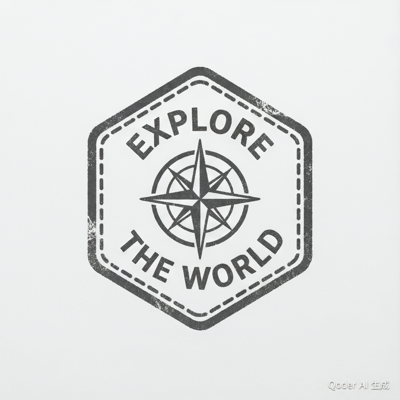
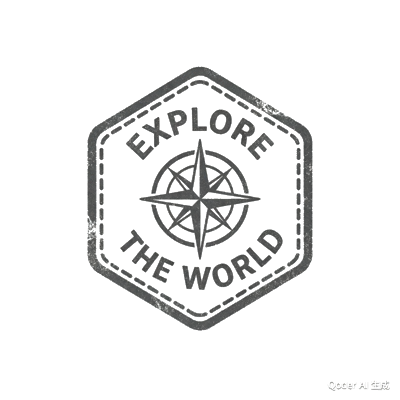
v0.7: fix SVG coordinate mismatch (move SVGs inside canvas), remove stamp white bg (PIL RGBA conversion), spread objects across full 1100x750 canvas

diff --git a/src/components/auth/LandingPage.tsx b/src/components/auth/LandingPage.tsx
@@ -270,13 +270,13 @@ export function LandingPage() {
           }}
         />
 
-        {/* Collage canvas wrapper — larger to show more spread */}
+        {/* Collage canvas wrapper */}
         <div style={{ position: 'relative', width: 750, height: 520, display: 'flex', alignItems: 'center', justifyContent: 'center' }}>
           <div style={{ position: 'relative', width: 1100, height: 750, transform: 'scale(0.62)', transformOrigin: 'center center', flexShrink: 0 }}>
 
-          {/* ── PHOTOS (top center, prominent) ── */}
+          {/* ── PHOTOS (top row, well-spaced) ── */}
           {/* Photo 1 — Wat Chedi Luang */}
-          <div className="landing-obj" style={{ position: 'absolute', left: 80, top: 30, transform: 'rotate(-3deg)', animationDelay: '0.1s' }}>
+          <div className="landing-obj" style={{ position: 'absolute', left: 55, top: 25, transform: 'rotate(-3deg)', animationDelay: '0.1s' }}>
             <div style={{ width: 240, height: 170, borderRadius: 2, boxShadow: '0 6px 20px rgba(0,0,0,0.22)', overflow: 'hidden', background: '#EEE' }}>
               <img src="/demo-assets/north-01-wat-chedi-luang.jpg" alt="" style={{ width: '100%', height: '100%', objectFit: 'cover', display: 'block' }} />
             </div>
@@ -284,7 +284,7 @@ export function LandingPage() {
           </div>
 
           {/* Photo 2 — Khao Soi */}
-          <div className="landing-obj" style={{ position: 'absolute', left: 360, top: 20, transform: 'rotate(2deg)', animationDelay: '0.2s' }}>
+          <div className="landing-obj" style={{ position: 'absolute', left: 420, top: 15, transform: 'rotate(2deg)', animationDelay: '0.2s' }}>
             <div style={{ width: 235, height: 165, borderRadius: 2, boxShadow: '0 6px 20px rgba(0,0,0,0.22)', overflow: 'hidden', background: '#EEE' }}>
               <img src="/demo-assets/north-02-khao-soi.jpg" alt="" style={{ width: '100%', height: '100%', objectFit: 'cover', display: 'block' }} />
             </div>
@@ -292,16 +292,16 @@ export function LandingPage() {
           </div>
 
           {/* Photo 3 — White Temple */}
-          <div className="landing-obj" style={{ position: 'absolute', left: 650, top: 28, transform: 'rotate(-1.5deg)', animationDelay: '0.3s' }}>
+          <div className="landing-obj" style={{ position: 'absolute', left: 780, top: 22, transform: 'rotate(-1.5deg)', animationDelay: '0.3s' }}>
             <div style={{ width: 238, height: 168, borderRadius: 2, boxShadow: '0 6px 20px rgba(0,0,0,0.22)', overflow: 'hidden', background: '#EEE' }}>
               <img src="/demo-assets/north-03-white-temple.jpg" alt="" style={{ width: '100%', height: '100%', objectFit: 'cover', display: 'block' }} />
             </div>
             <div style={{ position: 'absolute', top: -8, left: '50%', transform: 'translateX(-50%)', width: 16, height: 16, borderRadius: '50%', background: '#FFF', border: '2.5px solid #BBB', boxShadow: '0 2px 6px rgba(0,0,0,0.35)', zIndex: 2 }} />
           </div>
 
-          {/* ─ NOTES (scattered, natural) ── */}
-          {/* Note 1 — left area */}
-          <div className="landing-obj" style={{ position: 'absolute', left: 20, top: 280, transform: 'rotate(-3deg)', animationDelay: '0.45s' }}>
+          {/* ─ NOTES (middle row, spread out) ── */}
+          {/* Note 1 — left */}
+          <div className="landing-obj" style={{ position: 'absolute', left: 15, top: 290, transform: 'rotate(-3deg)', animationDelay: '0.45s' }}>
             <div style={{ width: 230, minHeight: 120, background: '#FFF', borderRadius: 2, boxShadow: '0 3px 12px rgba(0,0,0,0.12)', padding: '20px 22px', boxSizing: 'border-box' }}>
               <div style={{ fontSize: 16, color: '#333', fontFamily: 'Georgia, serif', lineHeight: 1.6, fontStyle: 'italic' }}>The quiet of Wat Chedi Luang makes me not want to leave</div>
             </div>
@@ -309,44 +309,44 @@ export function LandingPage() {
           </div>
 
           {/* Note 2 — center-right */}
-          <div className="landing-obj" style={{ position: 'absolute', left: 520, top: 260, transform: 'rotate(1.5deg)', animationDelay: '0.55s' }}>
+          <div className="landing-obj" style={{ position: 'absolute', left: 570, top: 275, transform: 'rotate(1.5deg)', animationDelay: '0.55s' }}>
             <div style={{ width: 220, minHeight: 115, background: '#FFF', borderRadius: 2, boxShadow: '0 3px 12px rgba(0,0,0,0.12)', padding: '20px 22px', boxSizing: 'border-box' }}>
               <div style={{ fontSize: 16, color: '#333', fontFamily: 'Georgia, serif', lineHeight: 1.6, fontStyle: 'italic' }}>Khao Soi — the soul curry noodles of Northern Thailand</div>
             </div>
             <div style={{ position: 'absolute', top: -7, left: '50%', transform: 'translateX(-50%)', width: 14, height: 14, borderRadius: '50%', background: '#FFF', border: '2px solid #CCC', boxShadow: '0 2px 4px rgba(0,0,0,0.3)', zIndex: 2 }} />
           </div>
 
-          {/* ── STICKIES (scattered) ── */}
-          {/* Sticky Yellow — right side */}
-          <div className="landing-obj" style={{ position: 'absolute', left: 820, top: 230, transform: 'rotate(5deg)', animationDelay: '0.65s' }}>
+          {/* ── STICKIES ── */}
+          {/* Sticky Yellow — far right */}
+          <div className="landing-obj" style={{ position: 'absolute', left: 850, top: 240, transform: 'rotate(5deg)', animationDelay: '0.65s' }}>
             <div style={{ width: 175, height: 175, background: '#FFF9C4', borderRadius: 2, boxShadow: '0 3px 12px rgba(0,0,0,0.12)', padding: '22px', boxSizing: 'border-box' }}>
               <div style={{ fontSize: 17, color: '#5D4E37', fontFamily: 'Georgia, serif', fontStyle: 'italic', lineHeight: 1.5 }}>Must go back to Chiang Mai!</div>
             </div>
             <div style={{ position: 'absolute', top: -7, left: '50%', transform: 'translateX(-50%)', width: 14, height: 14, borderRadius: '50%', background: '#FFF', border: '2px solid #CCC', boxShadow: '0 2px 4px rgba(0,0,0,0.3)', zIndex: 2 }} />
           </div>
 
-          {/* Sticky Green — center */}
-          <div className="landing-obj" style={{ position: 'absolute', left: 290, top: 320, transform: 'rotate(-4deg)', animationDelay: '0.7s' }}>
+          {/* Sticky Green — center-left */}
+          <div className="landing-obj" style={{ position: 'absolute', left: 280, top: 340, transform: 'rotate(-4deg)', animationDelay: '0.7s' }}>
             <div style={{ width: 170, height: 170, background: '#C8E6C9', borderRadius: 2, boxShadow: '0 3px 12px rgba(0,0,0,0.12)', padding: '22px', boxSizing: 'border-box' }}>
               <div style={{ fontSize: 16, color: '#3E5F3E', fontFamily: 'Georgia, serif', fontStyle: 'italic', lineHeight: 1.5 }}>First step in Thai: sawatdee</div>
             </div>
             <div style={{ position: 'absolute', top: -7, left: '50%', transform: 'translateX(-50%)', width: 14, height: 14, borderRadius: '50%', background: '#FFF', border: '2px solid #CCC', boxShadow: '0 2px 4px rgba(0,0,0,0.3)', zIndex: 2 }} />
           </div>
 
-          {/* ── STAMPS (scattered, more visible) ── */}
-          {/* Stamp 1 — left-center, transparent PNG */}
-          <div className="landing-obj" style={{ position: 'absolute', left: 150, top: 420, transform: 'rotate(-10deg)', animationDelay: '0.8s' }}>
-            <img src="/demo-assets/stamps/stamp-red-passport.png" alt="" style={{ width: 130, height: 130, display: 'block', mixBlendMode: 'multiply' }} />
+          {/* ── STAMPS (transparent PNG, no pin, no rope) ── */}
+          {/* Stamp 1 — left area */}
+          <div className="landing-obj" style={{ position: 'absolute', left: 120, top: 460, transform: 'rotate(-10deg)', animationDelay: '0.8s' }}>
+            <img src="/demo-assets/stamps/stamp-red-passport.png" alt="" style={{ width: 130, height: 130, display: 'block' }} />
           </div>
 
-          {/* Stamp 2 — right-center, transparent PNG */}
-          <div className="landing-obj" style={{ position: 'absolute', left: 680, top: 430, transform: 'rotate(8deg)', animationDelay: '0.85s' }}>
-            <img src="/demo-assets/stamps/stamp-blue-travel.png" alt="" style={{ width: 125, height: 125, display: 'block', mixBlendMode: 'multiply' }} />
+          {/* Stamp 2 — right area */}
+          <div className="landing-obj" style={{ position: 'absolute', left: 770, top: 470, transform: 'rotate(8deg)', animationDelay: '0.85s' }}>
+            <img src="/demo-assets/stamps/stamp-blue-travel.png" alt="" style={{ width: 125, height: 125, display: 'block' }} />
           </div>
 
-          {/* ── TORN PAPERS (bottom, scattered) ── */}
+          {/* ── TORN PAPERS (bottom row, spread out) ── */}
           {/* Torn Paper 1 — far left */}
-          <div className="landing-obj" style={{ position: 'absolute', left: 5, top: 500, transform: 'rotate(-5deg)', animationDelay: '0.9s' }}>
+          <div className="landing-obj" style={{ position: 'absolute', left: 0, top: 530, transform: 'rotate(-5deg)', animationDelay: '0.9s' }}>
             <div style={{ width: 220, minHeight: 115, background: '#FAFAFA', borderRadius: 2, boxShadow: '0 3px 12px rgba(0,0,0,0.12)', padding: '20px 22px', boxSizing: 'border-box' }}>
               <div style={{ fontSize: 16, color: '#333', fontFamily: 'Georgia, serif', lineHeight: 1.5, fontStyle: 'italic' }}>Rainbow after rain at Siam Square</div>
             </div>
@@ -354,7 +354,7 @@ export function LandingPage() {
           </div>
 
           {/* Torn Paper 2 — center */}
-          <div className="landing-obj" style={{ position: 'absolute', left: 340, top: 520, transform: 'rotate(3.5deg)', animationDelay: '0.95s' }}>
+          <div className="landing-obj" style={{ position: 'absolute', left: 370, top: 555, transform: 'rotate(3.5deg)', animationDelay: '0.95s' }}>
             <div style={{ width: 215, minHeight: 110, background: '#FAFAFA', borderRadius: 2, boxShadow: '0 3px 12px rgba(0,0,0,0.12)', padding: '20px 22px', boxSizing: 'border-box' }}>
               <div style={{ fontSize: 16, color: '#333', fontFamily: 'Georgia, serif', lineHeight: 1.5, fontStyle: 'italic' }}>Can not stop buying samples at 7-11</div>
             </div>
@@ -362,7 +362,7 @@ export function LandingPage() {
           </div>
 
           {/* Torn Paper 3 — right */}
-          <div className="landing-obj" style={{ position: 'absolute', left: 640, top: 510, transform: 'rotate(-3deg)', animationDelay: '1.0s' }}>
+          <div className="landing-obj" style={{ position: 'absolute', left: 710, top: 540, transform: 'rotate(-3deg)', animationDelay: '1.0s' }}>
             <div style={{ width: 218, minHeight: 115, background: '#FAFAFA', borderRadius: 2, boxShadow: '0 3px 12px rgba(0,0,0,0.12)', padding: '20px 22px', boxSizing: 'border-box' }}>
               <div style={{ fontSize: 16, color: '#333', fontFamily: 'Georgia, serif', lineHeight: 1.5, fontStyle: 'italic' }}>Thai people take fragrance to the extreme</div>
             </div>
@@ -370,47 +370,46 @@ export function LandingPage() {
           </div>
 
           {/* ─ TITLE NOTE (bottom center) ── */}
-          <div className="landing-obj" style={{ position: 'absolute', left: 400, top: 590, transform: 'rotate(1deg)', animationDelay: '1.05s' }}>
+          <div className="landing-obj" style={{ position: 'absolute', left: 400, top: 620, transform: 'rotate(1deg)', animationDelay: '1.05s' }}>
             <div style={{ width: 250, minHeight: 110, background: '#FFF', borderRadius: 2, boxShadow: '0 3px 12px rgba(0,0,0,0.12)', padding: '20px 22px', boxSizing: 'border-box' }}>
               <div style={{ fontSize: 17, color: '#333', fontFamily: 'Georgia, serif', lineHeight: 1.5, fontWeight: 600 }}>Thailand Trip — Chiang Mai & Bangkok</div>
             </div>
             <div style={{ position: 'absolute', top: -7, left: '50%', transform: 'translateX(-50%)', width: 14, height: 14, borderRadius: '50%', background: '#FFF', border: '2px solid #CCC', boxShadow: '0 2px 4px rgba(0,0,0,0.3)', zIndex: 2 }} />
           </div>
 
-          {/* ── ROPE CONNECTIONS (Pin-to-Pin, viewBox matches canvas 1100×750) ── */}
+          {/* ── ROPE CONNECTIONS (inside canvas, same coordinate system) ── */}
           <svg
             style={{ position: 'absolute', inset: 0, width: '100%', height: '100%', pointerEvents: 'none', zIndex: 1 }}
             viewBox="0 0 1100 750"
             preserveAspectRatio="xMidYMid meet"
           >
-            {/* Rope 1: Photo1(200,30) → Note1(135,330) */}
-            <path d="M 200 30 Q 160 170 135 330" stroke="#8B7355" strokeWidth="2.2" fill="none" strokeLinecap="round" strokeDasharray="360" strokeDashoffset="360" opacity="0.55">
-              <animate attributeName="stroke-dashoffset" from="360" to="0" dur="1.5s" fill="freeze" begin="2.0s" />
+            {/* Rope 1: Photo1(175,25) → Note1(130,340) */}
+            <path d="M 175 25 Q 145 175 130 340" stroke="#8B7355" strokeWidth="2.2" fill="none" strokeLinecap="round" strokeDasharray="340" strokeDashoffset="340" opacity="0.55">
+              <animate attributeName="stroke-dashoffset" from="340" to="0" dur="1.5s" fill="freeze" begin="2.0s" />
             </path>
-            {/* Rope 2: Photo2(478,20) → Note2(630,310) */}
-            <path d="M 478 20 Q 550 160 630 310" stroke="#8B7355" strokeWidth="2.2" fill="none" strokeLinecap="round" strokeDasharray="350" strokeDashoffset="350" opacity="0.55">
-              <animate attributeName="stroke-dashoffset" from="350" to="0" dur="1.5s" fill="freeze" begin="2.3s" />
+            {/* Rope 2: Photo2(538,15) → Note2(680,325) */}
+            <path d="M 538 15 Q 610 165 680 325" stroke="#8B7355" strokeWidth="2.2" fill="none" strokeLinecap="round" strokeDasharray="345" strokeDashoffset="345" opacity="0.55">
+              <animate attributeName="stroke-dashoffset" from="345" to="0" dur="1.5s" fill="freeze" begin="2.3s" />
             </path>
-            {/* Rope 3: Photo3(769,28) → StickyYellow(908,392) */}
-            <path d="M 769 28 Q 840 200 908 392" stroke="#8B7355" strokeWidth="2.2" fill="none" strokeLinecap="round" strokeDasharray="420" strokeDashoffset="420" opacity="0.55">
-              <animate attributeName="stroke-dashoffset" from="420" to="0" dur="1.7s" fill="freeze" begin="2.6s" />
+            {/* Rope 3: Photo3(899,22) → StickyYellow(938,405) */}
+            <path d="M 899 22 Q 920 210 938 405" stroke="#8B7355" strokeWidth="2.2" fill="none" strokeLinecap="round" strokeDasharray="425" strokeDashoffset="425" opacity="0.55">
+              <animate attributeName="stroke-dashoffset" from="425" to="0" dur="1.7s" fill="freeze" begin="2.6s" />
             </path>
-            {/* Rope 4: Note1(135,330) → TornPaper1(115,550) */}
-            <path d="M 135 330 Q 120 430 115 550" stroke="#8B7355" strokeWidth="1.8" fill="none" strokeLinecap="round" strokeDasharray="280" strokeDashoffset="280" opacity="0.45">
-              <animate attributeName="stroke-dashoffset" from="280" to="0" dur="1.4s" fill="freeze" begin="2.9s" />
+            {/* Rope 4: Note1(130,340) → TornPaper1(110,580) */}
+            <path d="M 130 340 Q 115 455 110 580" stroke="#8B7355" strokeWidth="1.8" fill="none" strokeLinecap="round" strokeDasharray="265" strokeDashoffset="265" opacity="0.45">
+              <animate attributeName="stroke-dashoffset" from="265" to="0" dur="1.4s" fill="freeze" begin="2.9s" />
             </path>
-            {/* Rope 5: Note2(630,310) → StickyGreen(375,402) */}
-            <path d="M 630 310 Q 510 350 375 402" stroke="#8B7355" strokeWidth="1.8" fill="none" strokeLinecap="round" strokeDasharray="320" strokeDashoffset="320" opacity="0.45">
-              <animate attributeName="stroke-dashoffset" from="320" to="0" dur="1.5s" fill="freeze" begin="3.2s" />
+            {/* Rope 5: Note2(680,325) → StickyGreen(365,420) */}
+            <path d="M 680 325 Q 520 370 365 420" stroke="#8B7355" strokeWidth="1.8" fill="none" strokeLinecap="round" strokeDasharray="340" strokeDashoffset="340" opacity="0.45">
+              <animate attributeName="stroke-dashoffset" from="340" to="0" dur="1.5s" fill="freeze" begin="3.2s" />
             </path>
-            {/* Rope 6: StickyGreen(375,482) → TornPaper2(448,570) */}
-            <path d="M 375 482 Q 410 520 448 570" stroke="#8B7355" strokeWidth="1.8" fill="none" strokeLinecap="round" strokeDasharray="140" strokeDashoffset="140" opacity="0.45">
-              <animate attributeName="stroke-dashoffset" from="140" to="0" dur="1.0s" fill="freeze" begin="3.5s" />
+            {/* Rope 6: StickyGreen(365,500) → TornPaper2(478,605) */}
+            <path d="M 365 500 Q 420 550 478 605" stroke="#8B7355" strokeWidth="1.8" fill="none" strokeLinecap="round" strokeDasharray="155" strokeDashoffset="155" opacity="0.45">
+              <animate attributeName="stroke-dashoffset" from="155" to="0" dur="1.0s" fill="freeze" begin="3.5s" />
             </path>
-
-            {/* Rope 7: TitleNote(525,700) → Photo2(478,20) — long cross connection */}
-            <path d="M 525 700 Q 540 400 478 20" stroke="#8B7355" strokeWidth="1.5" fill="none" strokeLinecap="round" strokeDasharray="750" strokeDashoffset="750" opacity="0.35">
-              <animate attributeName="stroke-dashoffset" from="750" to="0" dur="2.2s" fill="freeze" begin="3.8s" />
+            {/* Rope 7: TitleNote(525,720) → Photo2(538,15) — long cross */}
+            <path d="M 525 720 Q 535 400 538 15" stroke="#8B7355" strokeWidth="1.5" fill="none" strokeLinecap="round" strokeDasharray="720" strokeDashoffset="720" opacity="0.35">
+              <animate attributeName="stroke-dashoffset" from="720" to="0" dur="2.2s" fill="freeze" begin="3.8s" />
             </path>
           </svg>
 
@@ -420,21 +419,18 @@ export function LandingPage() {
             viewBox="0 0 1100 750"
             preserveAspectRatio="xMidYMid meet"
           >
-            {/* Grid pattern */}
             <defs>
               <pattern id="grid" width="60" height="60" patternUnits="userSpaceOnUse">
                 <path d="M 60 0 L 0 0 0 60" fill="none" stroke="rgba(139,115,85,0.04)" strokeWidth="0.5" />
               </pattern>
             </defs>
             <rect width="1100" height="750" fill="url(#grid)" />
-
-            {/* Glow at each pin position */}
             {[
-              [200, 30], [478, 20], [769, 28],
-              [135, 330], [630, 310],
-              [908, 392], [375, 402],
-              [115, 550], [448, 570], [749, 560],
-              [525, 700],
+              [175, 25], [538, 15], [899, 22],
+              [130, 340], [680, 325],
+              [938, 405], [365, 420],
+              [110, 580], [478, 605], [819, 590],
+              [525, 720],
             ].map(([cx, cy], i) => (
               <g key={`node-${i}`}>
                 <circle cx={cx} cy={cy} r="20" fill="rgba(139,115,85,0.06)">
